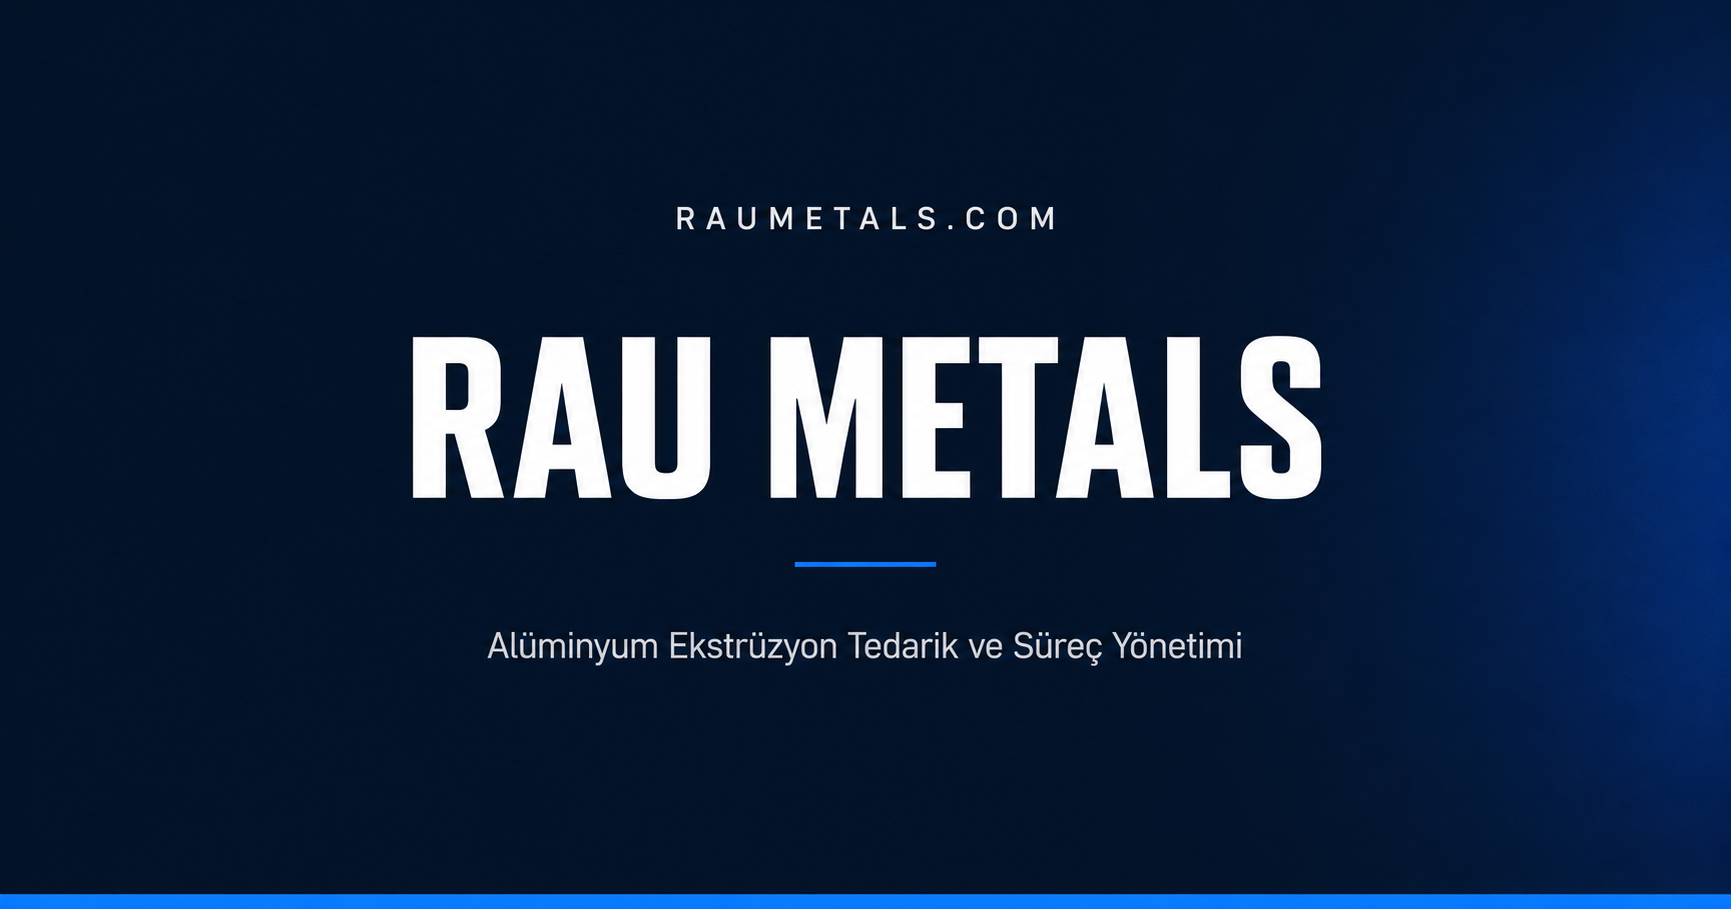
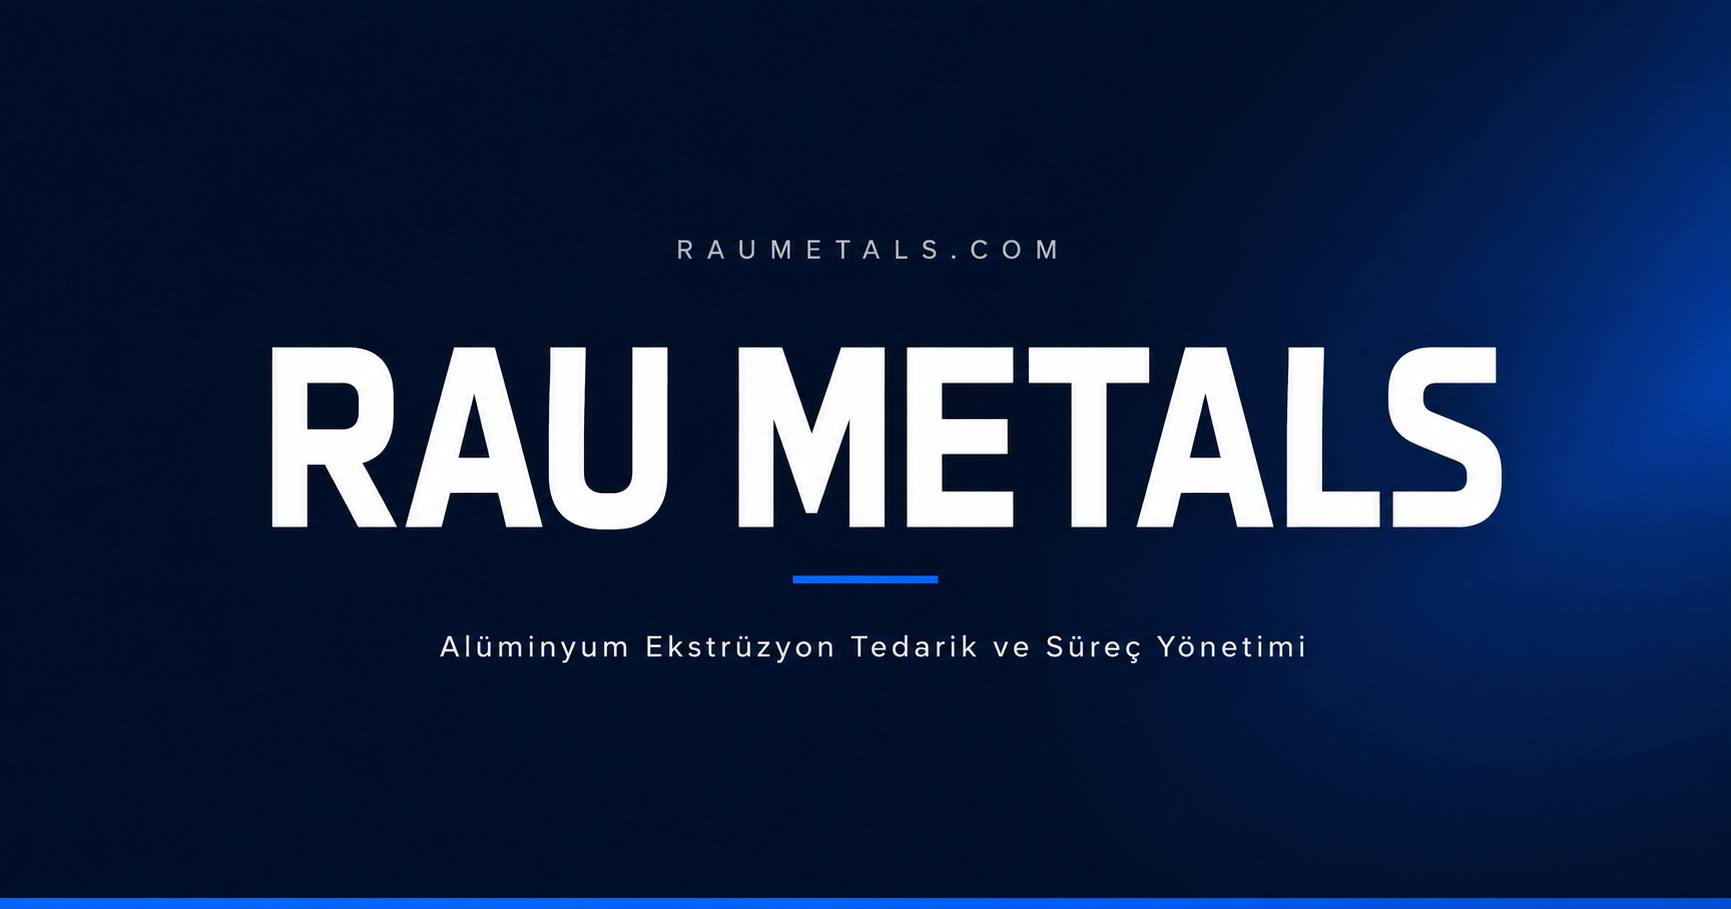
OG image guncellendi, site name meta etiketi eklendi, title ve description duzeltildi

diff --git a/index.html b/index.html
@@ -52,13 +52,14 @@
   <title>RAU Metals | Alüminyum Ekstrüzyon Tedarik ve Süreç Yönetimi</title>
   <meta name="google-site-verification" content="Ct4Fz-O4oPjMdg2WA3IaN4YUyNRlqhq1SABqEI4NGcM" />
   <meta property="og:title" content="RAU Metals | Alüminyum Ekstrüzyon Tedarik ve Süreç Yönetimi">
-  <meta property="og:description" content="RAU Metals, alüminyum ekstrüzyon profillerde teknik tedarik, üretici seçimi, kalite takibi ve lojistik koordinasyon çözümleri sunar.">
+  <meta property="og:description" content="RAU Metals; teknik tedarik, üretici seçimi, kalite takibi ve lojistik koordinasyonuyla alüminyum ekstrüzyon çözümleri sunar.">
   <meta property="og:image" content="https://raumetals.com/images/og-image.png">
   <meta property="og:url" content="https://raumetals.com/">
   <meta property="og:type" content="website">
+  <meta property="og:site_name" content="RAU Metals">
   <meta name="twitter:card" content="summary_large_image">
   <meta name="twitter:image" content="https://raumetals.com/images/og-image.png">
-  <meta name="description" content="RAU Metals, alüminyum ekstrüzyon profillerde teknik tedarik, üretici seçimi, kalite takibi ve lojistik koordinasyon çözümleri sunar.">
+  <meta name="description" content="RAU Metals; teknik tedarik, üretici seçimi, kalite takibi ve lojistik koordinasyonuyla alüminyum ekstrüzyon çözümleri sunar.">
   <link rel="icon" type="image/png" href="images/favicon.png">
   <link rel="stylesheet" href="css/style.css" />
   <link rel="stylesheet" href="https://cdnjs.cloudflare.com/ajax/libs/font-awesome/6.5.0/css/all.min.css" />

diff --git a/production.html b/production.html
@@ -3,13 +3,14 @@
 <head>
   <meta charset="UTF-8" />
   <meta name="viewport" content="width=device-width, initial-scale=1.0" />
-  <title>Tedarik Süreci | RAU Metals</title>
+  <title>Tedarik Kapsamı | Alüminyum Ekstrüzyon ve Yüzey İşlem Çözümleri</title>
   <meta name="google-site-verification" content="Ct4Fz-O4oPjMdg2WA3IaN4YUyNRlqhq1SABqEI4NGcM" />
   <meta property="og:title" content="Tedarik Süreci | RAU Metals">
-  <meta property="og:description" content="RAU Metals, alüminyum ekstrüzyon profillerde teknik tedarik, üretici seçimi, kalite takibi ve lojistik koordinasyon çözümleri sunar.">
+  <meta property="og:description" content="RAU Metals; teknik tedarik, üretici seçimi, kalite takibi ve lojistik koordinasyonuyla alüminyum ekstrüzyon çözümleri sunar.">
   <meta property="og:image" content="https://raumetals.com/images/og-image.png">
   <meta property="og:url" content="https://raumetals.com/production.html">
   <meta property="og:type" content="website">
+  <meta property="og:site_name" content="RAU Metals">
   <meta name="twitter:card" content="summary_large_image">
   <meta name="twitter:image" content="https://raumetals.com/images/og-image.png">
   <meta name="description" content="RAU Metals tedarik sürecini inceleyin. Teknik değerlendirme, üretici seçimi, kalite kontrol ve sevkiyat yönetimi.">

diff --git a/about.html b/about.html
@@ -3,13 +3,14 @@
 <head>
   <meta charset="UTF-8" />
   <meta name="viewport" content="width=device-width, initial-scale=1.0" />
-  <title>Hakkımızda | RAU Metals</title>
+  <title>Hakkımızda | RAU Metals Alüminyum Tedarik Çözümleri</title>
   <meta name="google-site-verification" content="Ct4Fz-O4oPjMdg2WA3IaN4YUyNRlqhq1SABqEI4NGcM" />
   <meta property="og:title" content="Hakkımızda | RAU Metals">
-  <meta property="og:description" content="RAU Metals, alüminyum ekstrüzyon profillerde teknik tedarik, üretici seçimi, kalite takibi ve lojistik koordinasyon çözümleri sunar.">
+  <meta property="og:description" content="RAU Metals; teknik tedarik, üretici seçimi, kalite takibi ve lojistik koordinasyonuyla alüminyum ekstrüzyon çözümleri sunar.">
   <meta property="og:image" content="https://raumetals.com/images/og-image.png">
   <meta property="og:url" content="https://raumetals.com/about.html">
   <meta property="og:type" content="website">
+  <meta property="og:site_name" content="RAU Metals">
   <meta name="twitter:card" content="summary_large_image">
   <meta name="twitter:image" content="https://raumetals.com/images/og-image.png">
   <meta name="description" content="RAU Metals hakkında bilgi edinin. Alüminyum ekstrüzyon tedarik sürecinde deneyimli ekibimiz ve değerlerimizle tanışın.">

diff --git a/quality.html b/quality.html
@@ -3,13 +3,14 @@
 <head>
   <meta charset="UTF-8" />
   <meta name="viewport" content="width=device-width, initial-scale=1.0" />
-  <title>Kalite | RAU Metals</title>
+  <title>Kalite Yaklaşımı | Belgelendirme ve Kontrol Süreci | RAU Metals</title>
   <meta name="google-site-verification" content="Ct4Fz-O4oPjMdg2WA3IaN4YUyNRlqhq1SABqEI4NGcM" />
   <meta property="og:title" content="Kalite | RAU Metals">
-  <meta property="og:description" content="RAU Metals, alüminyum ekstrüzyon profillerde teknik tedarik, üretici seçimi, kalite takibi ve lojistik koordinasyon çözümleri sunar.">
+  <meta property="og:description" content="RAU Metals; teknik tedarik, üretici seçimi, kalite takibi ve lojistik koordinasyonuyla alüminyum ekstrüzyon çözümleri sunar.">
   <meta property="og:image" content="https://raumetals.com/images/og-image.png">
   <meta property="og:url" content="https://raumetals.com/quality.html">
   <meta property="og:type" content="website">
+  <meta property="og:site_name" content="RAU Metals">
   <meta name="twitter:card" content="summary_large_image">
   <meta name="twitter:image" content="https://raumetals.com/images/og-image.png">
   <meta name="description" content="RAU Metals kalite politikası, sertifikalar ve test ekipmanları hakkında bilgi edinin.">

diff --git a/contact.html b/contact.html
@@ -3,13 +3,14 @@
 <head>
   <meta charset="UTF-8" />
   <meta name="viewport" content="width=device-width, initial-scale=1.0" />
-  <title>İletişim | RAU Metals</title>
+  <title>İletişim | Alüminyum Profil Tedarik Talebi | RAU Metals</title>
   <meta name="google-site-verification" content="Ct4Fz-O4oPjMdg2WA3IaN4YUyNRlqhq1SABqEI4NGcM" />
   <meta property="og:title" content="İletişim | RAU Metals">
-  <meta property="og:description" content="RAU Metals, alüminyum ekstrüzyon profillerde teknik tedarik, üretici seçimi, kalite takibi ve lojistik koordinasyon çözümleri sunar.">
+  <meta property="og:description" content="RAU Metals; teknik tedarik, üretici seçimi, kalite takibi ve lojistik koordinasyonuyla alüminyum ekstrüzyon çözümleri sunar.">
   <meta property="og:image" content="https://raumetals.com/images/og-image.png">
   <meta property="og:url" content="https://raumetals.com/contact.html">
   <meta property="og:type" content="website">
+  <meta property="og:site_name" content="RAU Metals">
   <meta name="twitter:card" content="summary_large_image">
   <meta name="twitter:image" content="https://raumetals.com/images/og-image.png">
   <meta name="description" content="RAU Metals ile iletişime geçin. Teklif talep edin, teknik sorularınızı iletin.">
